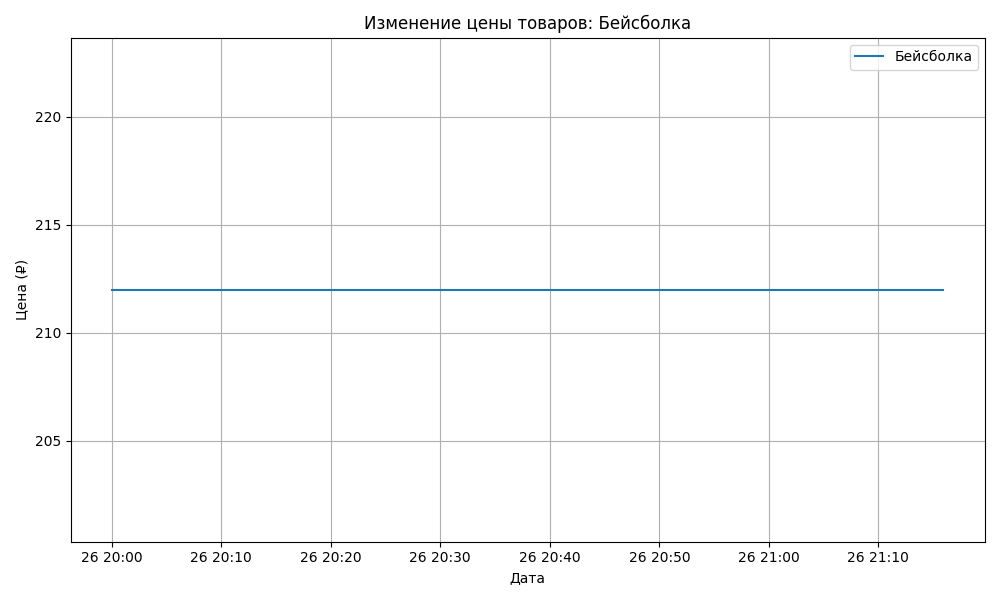
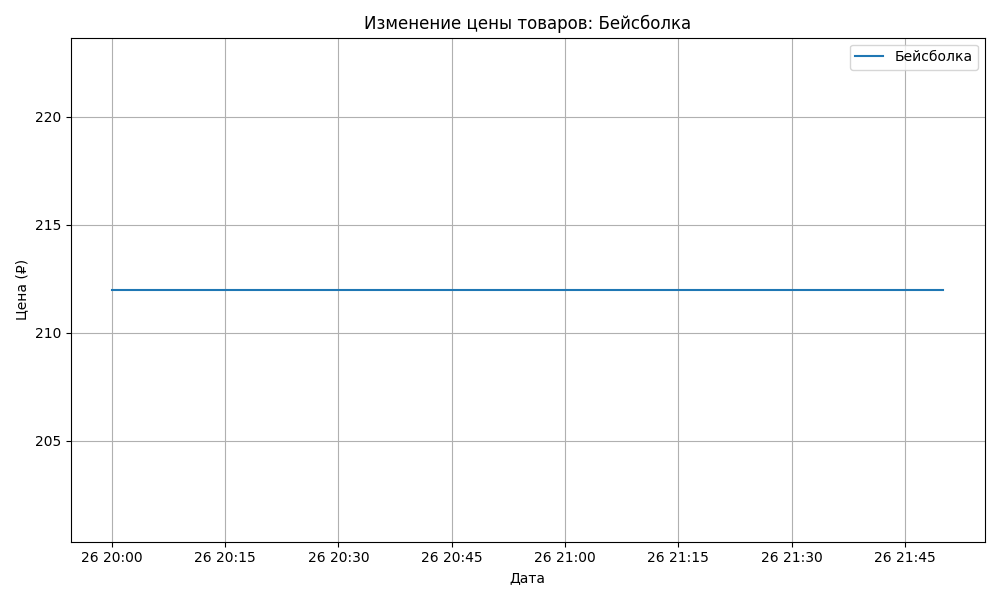
The normal structure of the project has been made

diff --git a/price_checker.py b/price_checker.py
@@ -1,0 +1,56 @@
+import csv
+from datetime import datetime
+from selenium import webdriver
+from selenium.webdriver.common.by import By
+from selenium.webdriver.support.wait import WebDriverWait
+from selenium.webdriver.support import expected_conditions as EC
+from telegram_bot import send_telegram_message, send_graph_photo
+from chart_builder import build_price_chart
+from config import get_selenium_options, get_chrome_service
+options = get_selenium_options()
+service = get_chrome_service()
+def find_min_price(current_name):
+    min_price = float('inf')
+    with open('price.csv' , 'r' , newline = '' , encoding = 'utf-8-sig') as f:
+        reader = csv.reader(f , delimiter = ';')
+        next(reader)
+        for row in reader:
+            name , price, date = row
+            priceint = int(price)
+            if name == current_name:
+                min_price = min(min_price , priceint)
+    return min_price
+
+def check_price():
+
+    driver = webdriver.Chrome(service=service, options=options)
+    print("Введите ссылку на товар с озона, например: https://www.ozon.ru/product/beysbolka-1725325406/ ")
+    urlinput = str(input())
+    driver.get(urlinput)
+    driver.maximize_window()
+    initial_title = driver.title
+    WebDriverWait(driver, 3).until(
+        EC.presence_of_element_located((By.CSS_SELECTOR, "[data-widget='webProductHeading'] h1"))
+    )
+    final_title = driver.title
+    print(driver.title)
+    print(driver.current_url)
+    curprice = WebDriverWait(driver , 3).until(EC.presence_of_element_located((By.CSS_SELECTOR , "[data-widget='webPrice'] span")))
+    curname = driver.find_element(By.CSS_SELECTOR, "[data-widget='webProductHeading'] h1")
+    curnametext = curname.text
+    curpricetext = curprice.text
+    price_digits = ''.join(filter(str.isdigit, curpricetext))
+    curpriceint = int(price_digits)
+    with open('price.csv' , 'a', newline = '' , encoding = 'utf-8-sig') as file:
+        writer = csv.writer(file, delimiter = ';' ,quoting=csv.QUOTE_NONNUMERIC)
+        writer.writerow([curnametext , curpriceint, datetime.now().isoformat()])
+    min_price = find_min_price(curnametext)
+    if(curpriceint < min_price):
+        send_telegram_message(f"🔻 Цена упала!\n\n<b>{curnametext}</b>\nНовая цена: {curpriceint}₽ \n\nURL: <b>{driver.current_url}</b>")
+    elif (curpriceint == min_price):
+        send_telegram_message(f"🔻 Цена не изменилась!\n\n<b>{curnametext}</b>\nЦена: {curpriceint}₽ \n\nURL:<b>{driver.current_url}</b>")
+    else:
+        send_telegram_message(f"🔻 Цена выросла!\n\n<b>{curnametext}</b>\n Новая цена: {curpriceint}₽ \n\nURL:<b>{driver.current_url}</b>")
+    build_price_chart(curnametext)
+    send_graph_photo()
+    driver.quit()

diff --git a/chart_builder.py b/chart_builder.py
@@ -1,0 +1,25 @@
+import pandas as pd
+import matplotlib.pyplot as plt
+def build_price_chart(target_name):
+    df = pd.read_csv('price.csv', delimiter = ';' , quotechar='"' ,encoding = 'utf-8-sig')
+    df.rename(columns = {
+        "Название_вещи": "name",
+        "Цена в рублях": "price",
+        "Дата": "timestamp"
+    } , inplace = True)
+    df['timestamp'] = pd.to_datetime(df['timestamp'] ,format='%Y-%m-%dT%H:%M:%S.%f')
+    filtered = df[df['name'] == target_name]
+    if filtered.empty:
+        print(f"⚠ Нет данных для товара: {target_name}")
+        return
+    plt.figure(figsize=(10, 6))
+    plt.plot(filtered['timestamp'], filtered['price'], label=target_name)
+
+    plt.xlabel("Дата")
+    plt.ylabel("Цена (₽)")
+    plt.title(f"Изменение цены товаров: {target_name}")
+    plt.legend()
+    plt.grid(True)
+    plt.tight_layout()
+    plt.savefig("price_chart.png")
+    plt.close()

diff --git a/config.py b/config.py
@@ -1,0 +1,18 @@
+from selenium.webdriver.chrome.options import Options
+from selenium.webdriver.chrome.service import Service
+from webdriver_manager.chrome import ChromeDriverManager
+def get_selenium_options():
+    options = Options()
+    options.add_experimental_option("detach", True)
+    options.add_argument("--disable-blink-features=AutomationControlled")
+    options.add_experimental_option("excludeSwitches", ["enable-automation"])
+    options.add_argument("--disable-dev-shm-usage")
+    options.add_argument("--remote-allow-origins=*")
+    options.add_argument("--disable-renderer-backgrounding")
+    options.add_argument("--disable-background-timer-throttling")
+    user_agent = "Mozilla/5.0 (Windows NT 10.0; Win64; x64) AppleWebKit/537.36 (KHTML, like Gecko) Chrome/125.0.0.0 Safari/537.36"
+    options.add_argument(f"user-agent={user_agent}")
+    return options
+
+def get_chrome_service():
+    return Service(ChromeDriverManager().install())

diff --git a/telegram_bot.py b/telegram_bot.py
@@ -1,0 +1,29 @@
+import requests
+import os
+def send_graph_photo():
+    TELEGRAM_TOKEN = os.getenv('TELEGRAM_TOKEN')
+    CHAT_ID = os.getenv('CHAT_ID')
+    bot_token = TELEGRAM_TOKEN
+    chat_id = CHAT_ID
+    url = f"https://api.telegram.org/bot{bot_token}/sendPhoto"
+    with open('price_chart.png' , 'rb') as photo:
+        payload = {
+            "chat_id": chat_id,
+            "caption": "📈 График изменения цен"
+        }
+        files = {
+            "photo": photo
+        }
+        requests.post(url, data=payload, files=files)
+def send_telegram_message(message):
+    TELEGRAM_TOKEN = os.getenv('TELEGRAM_TOKEN')
+    CHAT_ID = os.getenv('CHAT_ID')
+    bot_token = TELEGRAM_TOKEN
+    chat_id = CHAT_ID
+    url = f"https://api.telegram.org/bot{bot_token}/sendMessage"
+    payload = {
+        "chat_id": chat_id,
+        "text": message,
+        "parse_mode": "HTML"
+    }
+    requests.post(url , data=payload)

diff --git a/main.py b/main.py
@@ -1,0 +1,15 @@
+import time
+from price_checker import *
+from dotenv import load_dotenv
+load_dotenv()
+while True:
+    print(f"Запуск проверки: {datetime.now().strftime('%Y-%m-%d %H:%M:%S')}")
+    try:
+        check_price()
+
+    except Exception as е:
+        print(f"ошибка при запуске: {е}")
+
+    print("Ожидание следующего запуска")
+    time.sleep(3600)
+
